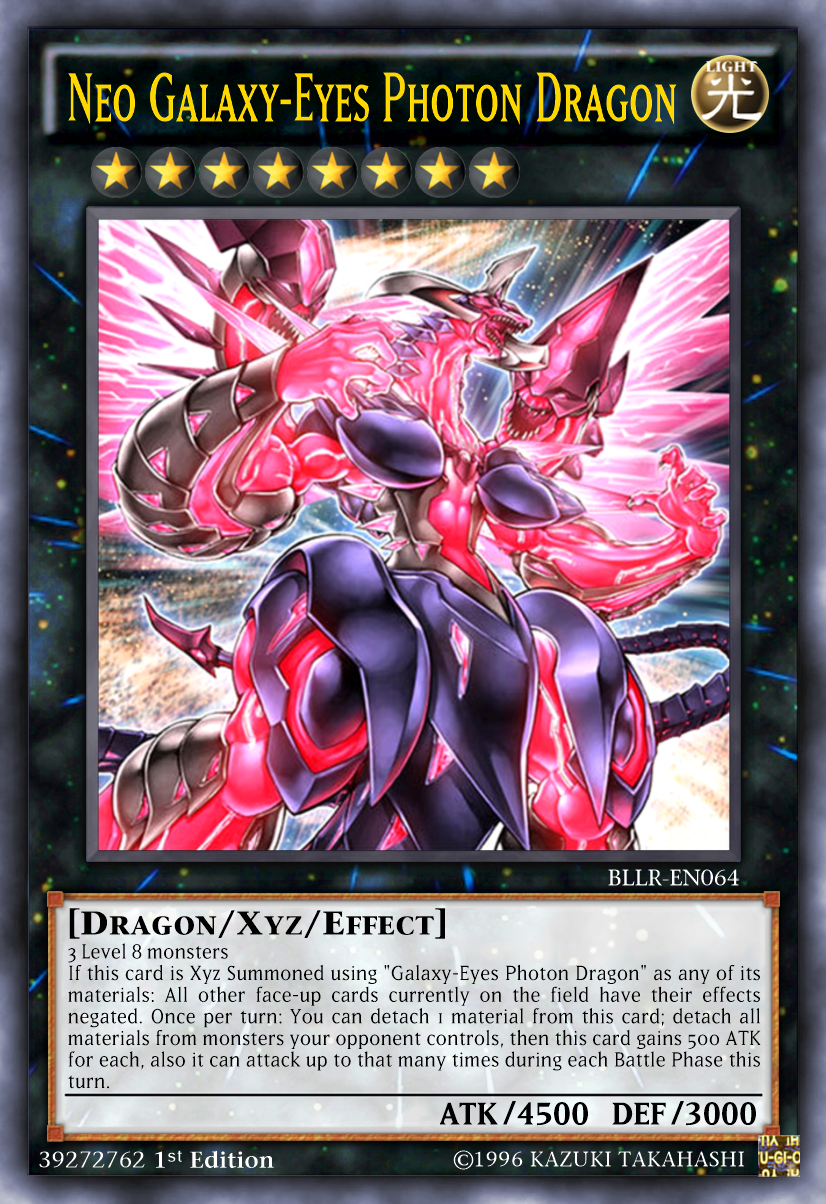
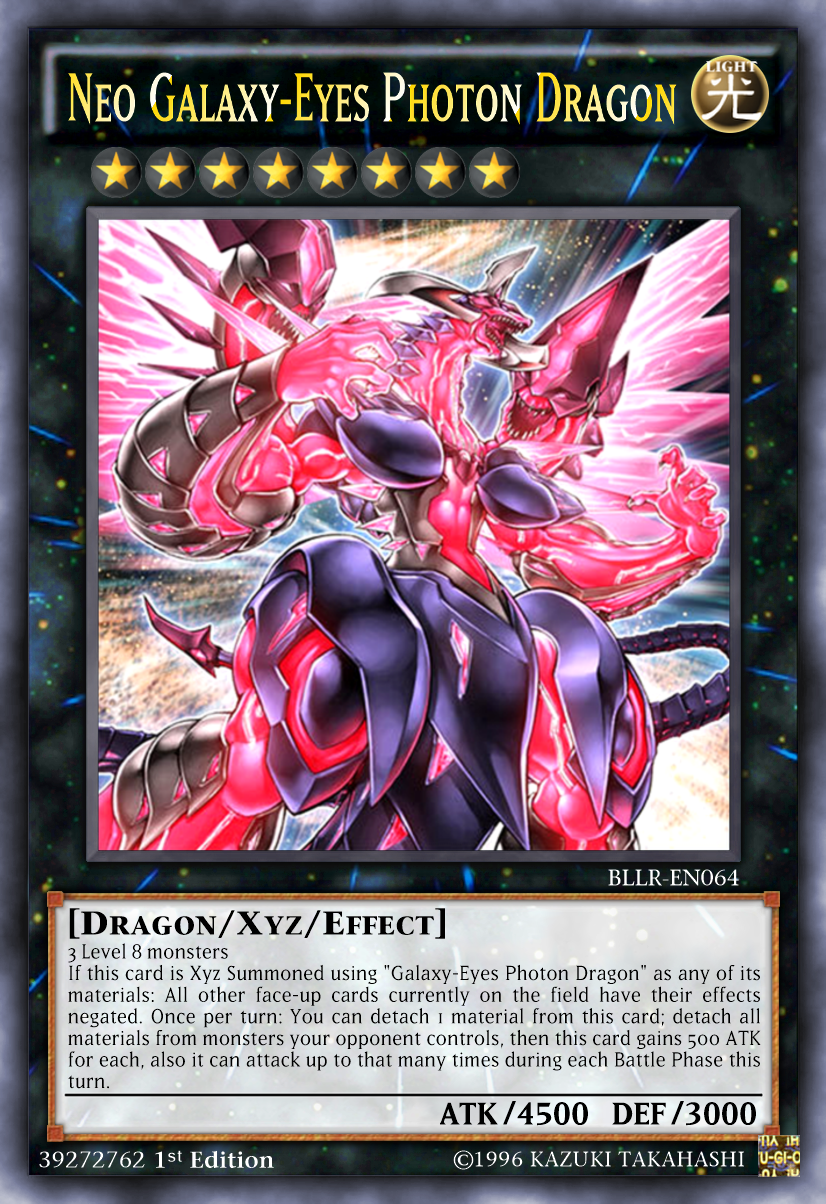
Adding ultimate rare sample

Changed region(s): [[0.0605, 0.0615, 0.6356, 0.1229], [0.6659, 0.0615, 0.8172, 0.1229]]

diff --git a/src/Yugioh.Demo/Program.cs b/src/Yugioh.Demo/Program.cs
@@ -1,5 +1,6 @@
 using System.Collections.Generic;
 using System.Drawing;
+using System.Drawing.Drawing2D;
 using System.Drawing.Imaging;
 using System.IO;
 using Yugioh.Draw.Builders;
@@ -177,7 +178,7 @@ namespace Yugioh.Demo
             new CardBuilder(resourceRepository, Frame.Xyz,
                 @"C:\Users\Admin\Documents\Projects\Yugioh.Draw\resources\images\ARTWORK__NEO_GALAXY_EYES_PHOTON_DRAGON_001.png")
                 .AddAttribute(Attribute.Light)
-                .AddName("Neo Galaxy-Eyes Photon Dragon", Brushes.Gold)
+                .AddName("Neo Galaxy-Eyes Photon Dragon", new LinearGradientBrush(Point.Empty, new Point(100, 100), Color.Gold, Color.White))
                 .AddRank(Rank.Eight)
                 .AddNumber("BLLR-EN064", Brushes.White)
                 .AddMonsterType(new List<string>() { "Dragon", "Xyz", "Effect" })
